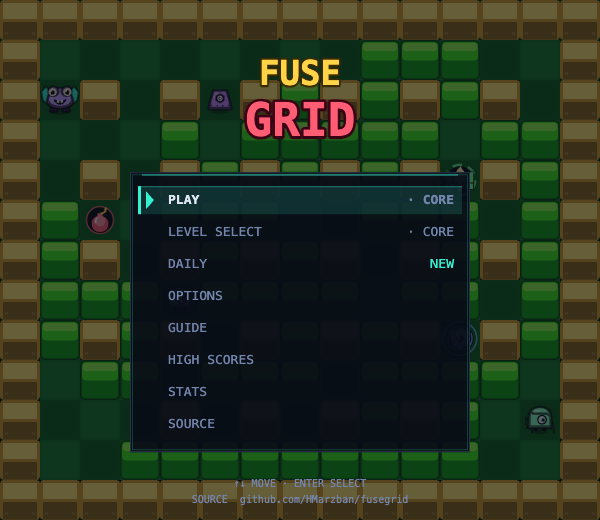
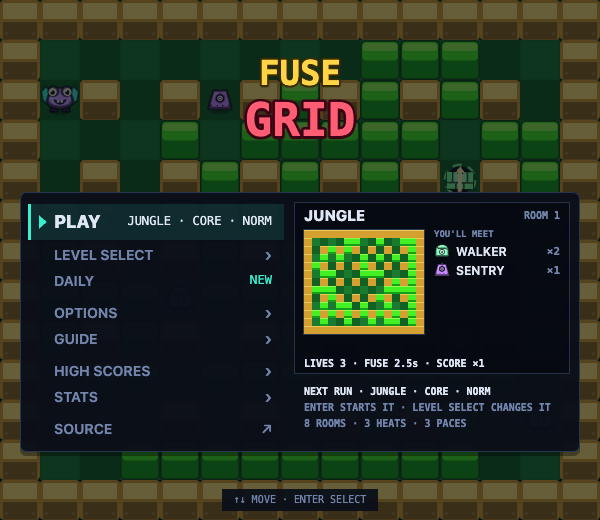
media: recapture still-menu.png on shell v181 (CONSOLE PANEL list + preview pane)

diff --git a/media/README.md b/media/README.md
@@ -23,17 +23,14 @@ which moments were staged through `window.__GAME__` (the `?debug=1` hook) or
 by writing world state directly, so a shot is reachable in one script instead
 of minutes of RNG-dependent play.
 
-Last recaptured **2026-10-19** on shell v178 (precache `fusegrid-shell-v178`),
-so the set shows the eight-row MENU and the live REAL 3D rig: the STANDARD
+The first pass ran **2026-10-19** on shell v178 (precache `fusegrid-shell-v178`)
+and covers the cover, the three 3D stills and the GIF. Shells v179–v181
+changed only the menus and the PAUSE / WIN / LOSE overlays, never the board
+or the HUD, so those shots are current. `still-menu.png` was recaptured on
+v181 (its row below says how). The board shots show the live REAL 3D rig: the STANDARD
 preset (`dist` 1503) through the `CAM_FOV` 24 lens, both read from
 `camrig.js` in the page at capture time, never orbited or dollied, with the
 near-wall cutaway. MAKO is the hero in every shot.
-
-> **`still-menu.png` is one menu behind.** Shell v179/v180 rebuilt the menus
-> (the CONSOLE PANEL list beside a preview pane), and this still shows the
-> v178 menu. The board shots (cover, 3D stills, GIF) are still current:
-> v179/v180 changed only the menus and the PAUSE / WIN / LOSE overlays,
-> never the board or the HUD. Recapturing the MENU is open.
 
 **How every capture ran.** Each asset got its own session (the three 3D
 stills share one): its own
@@ -69,7 +66,7 @@ exceptions.
 | `still-jungle.png` | Screenshot — room 1 JUNGLE | Live REAL 3D capture with the HUD chip row, room 1 straight from `__GAME__.begin()`, natural roster (two WALKERs and a STATIONARY, eight pickups placed by the room's own generator). Shot 1.6 s into real play, so foes have wandered naturally and MAKO is near spawn; `p.iFrames` set to 0 one frame before the shot so the spawn blink can't hide the hero; `nb.coach.v1` seeded as seen. 1200×1040, 0 pixels below alpha 250, border `rgb(6,36,22)`. |
 | `still-ice.png` | Screenshot — room 2 ICE | Same session and technique, room 2 entered with `loadLevel(G,2,true)` (carry kept, state set to PLAY) and shot 1.6 s later, `p.iFrames` 0, `nb.coach.v1` seeded as seen. Natural roster (four foes). Shows the near-wall cutaway: ICE's tall border is cut down only on the row nearest the camera. 0 pixels below alpha 250, border `rgb(10,32,72)`. |
 | `still-crown.png` | Screenshot — room 8 CROWN | Same session and technique, room 8 entered with `loadLevel(G,8,true)` straight from room 2 (the finale look is normally gated behind the first FUSE/GRID CLEAR; this jumps the gate for capture, not through a save-scummed unlock). Natural roster — nine foes is what that room spawns. `p.iFrames` 0, `nb.coach.v1` seeded as seen. 0 pixels below alpha 250, border `rgb(20,8,8)`. |
-| `still-menu.png` | Screenshot — MENU screen | CLASSIC 2D (`?debug=1`, fresh settings, so CLASSIC is the look), reached the way a player does: one Enter on the title, then the whole opening show ran until its bomb's boom landed MENU at PLAY (4.5 s after the press). Shot 1.2 s later (`idleT` 1.3 s, far from the 10 s ATTRACT timeout) as `#c.toDataURL()` at the canvas's native 600×520 backing, so nothing is resampled. Shows all eight rows (PLAY / LEVEL SELECT / DAILY / OPTIONS / GUIDE / HIGH SCORES / STATS / SOURCE); DAILY reads NEW because the profile is fresh. The backdrop is the kept show world, not a room board, with MAKO at its top-left. |
+| `still-menu.png` | Screenshot — MENU screen | Recaptured on **shell v181** (precache `fusegrid-shell-v181`), with the second-pass clean start but the ordinary real-time rAF shim, since the opening show runs on the clock. CLASSIC 2D (`?debug=1`, fresh settings, so CLASSIC is the look), keyboard layout (`data-lay d`, 640×568 at DPR 2, capture stylesheet), reached the way a player does: one Enter on the title, then the whole opening show ran until its bomb's boom landed MENU at PLAY (4.4 s after the press). Shot 1.2 s later (`idleT` 1.2 s, far from the 10 s ATTRACT timeout) as `#c.toDataURL()` at the canvas's native 600×520 backing, so nothing is resampled. Shows the v180/v181 menu: the eight rows (PLAY / LEVEL SELECT / DAILY / OPTIONS / GUIDE / HIGH SCORES / STATS / SOURCE) beside the preview pane for PLAY (JUNGLE, room 1, the foes you'll meet, LIVES · FUSE · SCORE). DAILY reads NEW because the profile is fresh. The backdrop is the kept show world, not a room board. |
 | `play.gif` | Animated preview — a JUNGLE run | Live REAL 3D run (`?render=3d&debug=1`) driven by real held-key intents (`window.__GAME__.setKeys`) through the normal rAF-driven loop, so the walk is the real animation. The route was planned by a BFS over that session's live grid: walk from spawn to the open tile beside a BRICK, plant, retreat straight west along the same row to two tiles from the bomb (in line with the blast, one tile past the end of the FLAME 1 arm), let the blast open the BRICK, walk back and grab the FLAME the room's own generator had buried there. The pickup fires the floating `FLAME 2` label and the HUD FLAME chip pulse. The only world staging is the fuse (`w.fuse=1.2` instead of CORE's 2.5 s) so the beat fits in 6 s; `nb.coach.v1` was seeded as seen. Nothing else was touched: no grid carved, no foe moved (none came within four tiles of the route), no pickup placed. 3 hearts intact end to end. Recorded as a burst of 83 stage-clipped `Page.captureScreenshot` frames at 1200×1040 over 5.9 s with wall-clock timestamps, retimed through an ffmpeg concat list to 12 fps (72 frames, 6.0 s), scaled down to 630×546 (lanczos, never upscaled), `palettegen=stats_mode=diff` / `paletteuse=dither=bayer:bayer_scale=4`. 0.58 MB, under the 3 MB gate. |
 | `still-pixel.png` | Screenshot — room 3 FACTORY in PIXEL | PIXEL (`?render=px&debug=1`), second-pass method, 640×568 at DPR 2 with the capture stylesheet, clipped to the stage at 1200×1040, the same frame as the other stills. `#px` backing is 1200×1040 (`dprPx` 2), so nothing is upscaled. Room 3 was entered with `loadLevel(G,3,true)` straight after `begin()`, which jumps the room order for the capture; its roster (four foes) and floor pickups are the room's own. Picked from 22 candidates taken every 0.5 s: 3.5 s into the room, the demobot's first bomb has just gone off (full cross on the open floor), MAKO stands beside its second bomb, and four foes and five floor pickups (a HEART among them) are on the board. 3 hearts. |
 | `clip-landscape.mp4` | Silent clip, 16:9 (CrazyGames landscape) | REAL 3D, second-pass method, 960×540 at DPR 2: the desktop layout (`data-lay d`) at 1920×1080. The whole viewport, so the stage sits on the page backdrop the way it does in a 16:9 browser window. `#gl` backing 1200×1040 for a 1135-px stage (no upscale). JUNGLE room 1, 18.0 s cut from 3.9–21.9 s of a 50 s take: five blasts, bricks broken, a POWER BOMB uncovered and grabbed (floating label + ability chip), score 10 → 200, 3 hearts throughout. 540 frames, 30 fps. |

diff --git a/MEMORY.md b/MEMORY.md
@@ -17,7 +17,7 @@ append an entry when it makes a non-trivial change.
 ## Log
 
 ## 2026-10-19 — Listing art gaps filled: manifest screenshots, PIXEL still, silent clips
-- Merged the promo kit (inspiring-moser) + media recapture (modest-haslett) branches, then captured on a virtual clock (performance.now stepped 2x1/60 s per frame, so 1080p is real-speed with no dropped frames) with the game's own demobot on the real Input: screenshots/wide.png (3D 1920x1080) + narrow.png (CLASSIC phone 1080x1920) in manifest `screenshots`, staged by pages.yml, NOT precached (pwa.test pins it); media/still-pixel.png (FACTORY); 18 s silent clips: landscape 16:9 3D, portrait 2:3 PIXEL (CrazyGames), 9:16 3D (Shorts). Open: manifest is precached, so CACHE_NAME/REV bump at the next release; CrazyGames covers need a title composite (owner/storefront). Capture scripts: shared notes folder.
+- Merged the promo kit (inspiring-moser) + media recapture (modest-haslett) branches, then captured on a virtual clock (performance.now stepped 2x1/60 s per frame, so 1080p is real-speed with no dropped frames) with the game's own demobot on the real Input: screenshots/wide.png (3D 1920x1080) + narrow.png (CLASSIC phone 1080x1920) in manifest `screenshots`, staged by pages.yml, NOT precached (pwa.test pins it); media/still-pixel.png (FACTORY); 18 s silent clips: landscape 16:9 3D, portrait 2:3 PIXEL (CrazyGames), 9:16 3D (Shorts). Merged main (v181) after; still-menu.png recaptured on v181 (CONSOLE PANEL list + preview pane). Open: manifest is precached, so it needs a shell bump to reach installs (v181, still unpushed, covers it only if this merges first; else v182); CrazyGames covers need a title composite (owner/storefront). Capture scripts: shared notes folder.
 
 ## 2026-10-19 — Shell v181: phone menus on a full-screen box, iso overflow, NO TIME YET (not pushed)
 - Owner GO from a before/after sheet (https://claude.ai/artifact/NB6JbVSgTkDueFSgvYhdfZ): touch-portrait MENU + pages draw on #sh (fit.js shellGeo, ~0.9 vs 0.63), board canvases untouched; narrow re-flows in menudraw. Iso MEDALS/STATS/SCORES fixes gated on f<1; NO TIME YET waits for TIME. npm test green, CDP verify2 129/129; scripts in git-ignored .superpowers/sdd/2026-10-19-polish2/.

diff --git a/docs/marketing/README.md b/docs/marketing/README.md
@@ -202,7 +202,7 @@ on it.
 | Need | Have it? |
 |---|---|
 | itch cover 630×500 | ✅ `media/cover-630x500.png` |
-| 3–5 gameplay stills | ✅ `media/still-*.png`: JUNGLE, ICE, CROWN in REAL 3D and FACTORY in PIXEL. ⚠ `still-menu.png` still shows the v178 menu, from before the v179/v180 redesign, so it needs a recapture |
+| 3–5 gameplay stills | ✅ `media/still-*.png`: JUNGLE, ICE, CROWN in REAL 3D, FACTORY in PIXEL, and the MENU (recaptured on v181) |
 | Short gameplay GIF | ✅ `media/play.gif` |
 | A PIXEL still | ✅ `media/still-pixel.png` |
 | Silent 15–20 s clip, landscape + portrait | ✅ 18 s each: `media/clip-landscape.mp4` (1920×1080, REAL 3D) and `media/clip-portrait-2x3.mp4` (1080×1620, PIXEL) for CrazyGames, `media/clip-portrait-9x16.mp4` (1080×1920, REAL 3D) for Shorts / TikTok / Reels |
@@ -298,9 +298,9 @@ Leave out the classic franchise's name and any "-like" topic built on it.
 
 - ~~**Manifest screenshots.**~~ Done 2026-10-19: `screenshots/wide.png`
   (REAL 3D, 1920×1080) and `screenshots/narrow.png` (CLASSIC 2D on a phone,
-  1080×1920) are in the manifest and staged by `pages.yml`. They reach
-  installed players at the next release's `CACHE_NAME` bump, since the
-  manifest itself is precached.
+  1080×1920) are in the manifest and staged by `pages.yml`. The manifest
+  itself is precached, so they reach installed players with the first shell
+  bump after they merge.
 - **A second indexable page.** The whole site is one canvas page. A small
   static `how-to-play.html` built from the in-game GUIDE copy, with real
   screenshots, would give search engines honest text and a second URL.
@@ -412,7 +412,7 @@ Tick these in order. Every box past "Ready the page" is something the
 - [x] Merge the fresh `media/` recapture.
 - [x] Capture a PIXEL still and a 15–20 s silent clip (landscape and
       portrait). Real captures only.
-- [ ] Recapture `media/still-menu.png` on the v180 menus.
+- [x] Recapture `media/still-menu.png` on the current menus (v181).
 - [ ] CrazyGames covers 16:9, 2:3, 1:1 (see the art table).
 
 **4. List it (one a week is plenty)**
